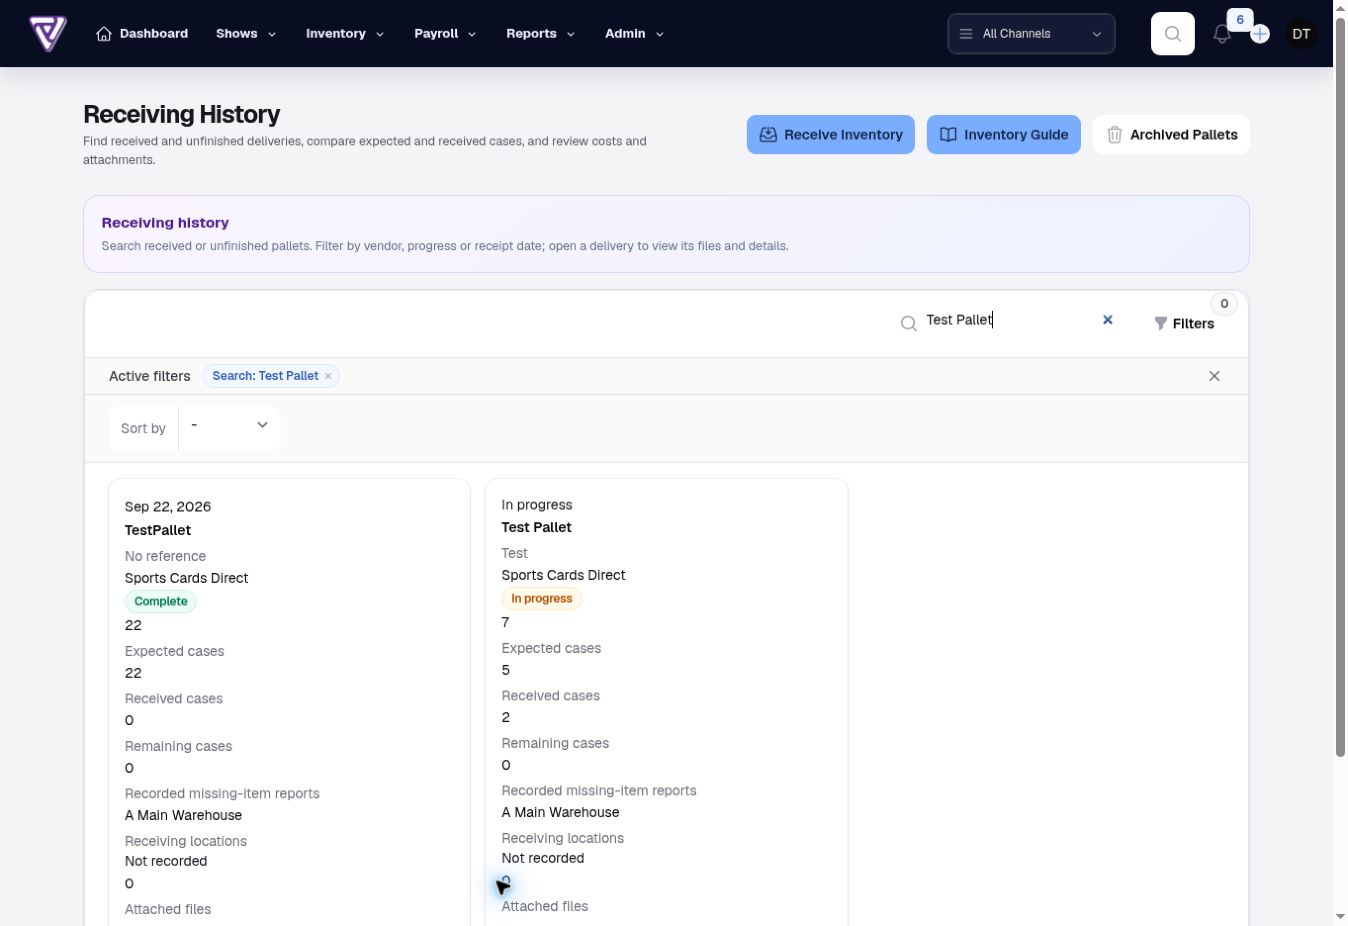
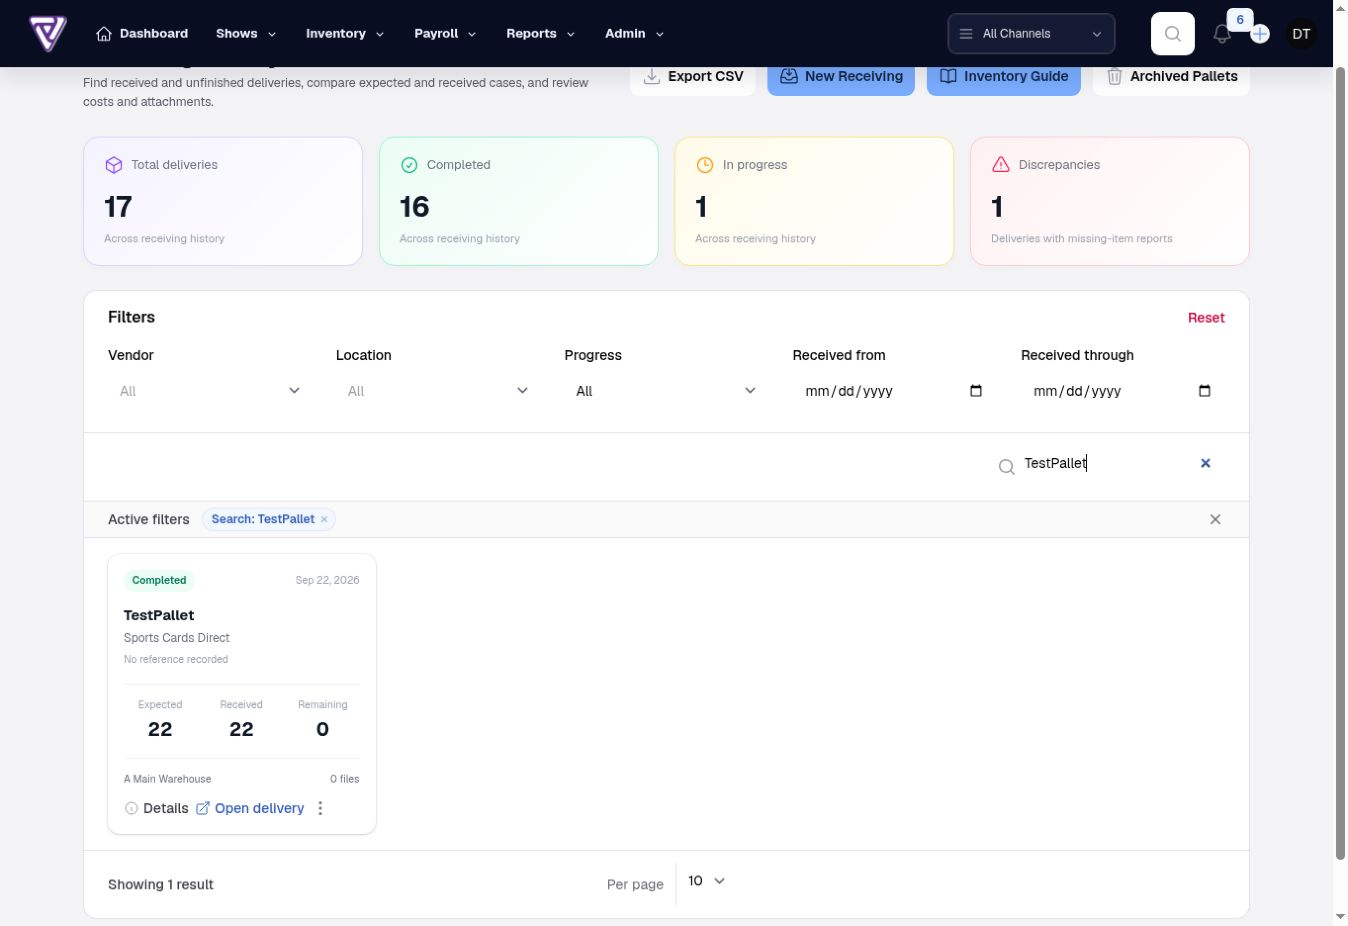
Keep dashboard KPI values readable and refresh receiving guide screenshot

diff --git a/resources/views/filament/components/dashboard-reference.blade.php b/resources/views/filament/components/dashboard-reference.blade.php
@@ -11,7 +11,7 @@
 <div class="vx-dashboard-reference space-y-4" data-vx-page="admin-dashboard">
     <style>
         .vx-dashboard-reference .fi-wi-stats-overview-stat{border-radius:1rem;box-shadow:0 3px 12px rgba(30,41,59,.04);min-width:0}
-        .vx-dashboard-reference .fi-wi-stats-overview-stat-value{font-size:clamp(1.1rem,1.7vw,1.5rem);line-height:1.25;overflow-wrap:anywhere}
+        .vx-dashboard-reference .fi-wi-stats-overview-stat-value{font-size:clamp(1rem,1.3vw,1.2rem)!important;line-height:1.25;white-space:normal!important;overflow:visible!important;text-overflow:clip!important;overflow-wrap:anywhere}
         .vx-dashboard-reference .fi-wi-stats-overview-stat-label{font-size:.75rem}
         .vx-dashboard-reference .fi-section{border-radius:1rem}
         .vx-dashboard-reference .fi-wi{min-width:0}
